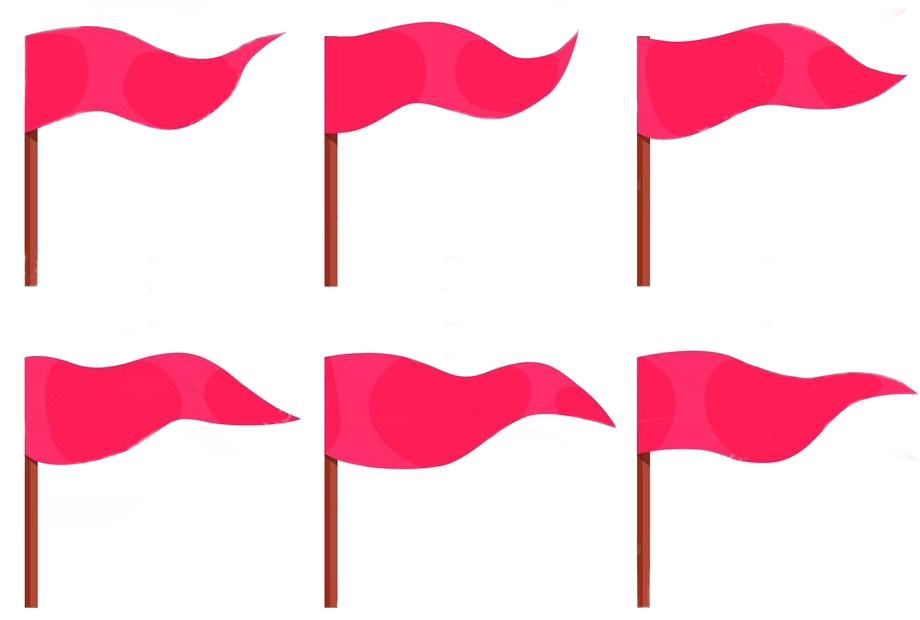
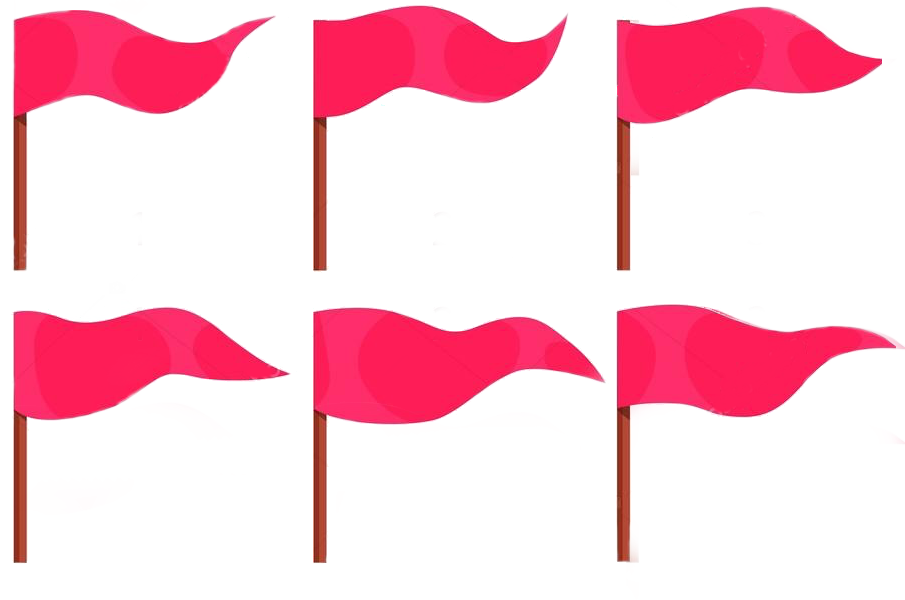
MapScreen flag animation added.

diff --git a/core/src/by/android/cradle/Kingdom.java b/core/src/by/android/cradle/Kingdom.java
@@ -12,11 +12,24 @@ public class Kingdom extends BaseActor {
         super(x,y,s, touchable);
         setHeight(height);
         setWidth(width);
-        loadTexture("kingdoms/winterfell.png", (int) getWidth(), (int) getHeight());
-        Animation<TextureRegion> animation= loadAnimationFromSheet("kingdoms/flaganimation01.png", 2, 3, 0.1f, true,50,50);
-        BaseActor baseActor = new BaseActor((int) getWidth()/2,(int) getHeight(),s,Touchable.enabled);
-        baseActor.setAnimation(animation);
-        addActor(baseActor);
 
+       // Animation<TextureRegion> animation= loadAnimationFromSheet("kingdoms/flaganimation01.png", 2, 3, 0.1f, true,50,50);
+        String[] filenames =
+                { "flag/flag02.png", "flag/flag03.png",
+                        "flag/flag04.png", "flag/flag05.png", "flag/flag06.png",
+                        "flag/flag07.png", "flag/flag08.png", "flag/flag09.png",
+                        "flag/flag10.png", "flag/flag11.png", "flag/flag12.png"
+                };
+
+       Animation<TextureRegion> animation = loadAnimationFromFiles(filenames, 0.1f, true,  50,  50);
+       BaseActor baseActor = new BaseActor((int) getWidth()/2.8f,(int) (getHeight()*0.5f),s,Touchable.enabled);
+       baseActor.setAnimation(animation);
+       addActor(baseActor);
+       baseActor = new BaseActor((int) getWidth()/2.8f,(int) (getHeight()*0.5f),s,Touchable.enabled);
+       animation = loadTexture("flag/flagbasement.png", (int) getWidth(), (int) getHeight());
+       baseActor.setAnimation(animation);
+       addActor(baseActor);
+
+       loadTexture("kingdoms/winterfell.png", (int) getWidth(), (int) getHeight());
     }
 }

diff --git a/core/src/by/android/cradle/GameMapScreen.java b/core/src/by/android/cradle/GameMapScreen.java
@@ -68,7 +68,12 @@ public class GameMapScreen extends BaseScreen {
         w = Gdx.graphics.getWidth();
         h = Gdx.graphics.getHeight();
         Kingdom winterfell = new Kingdom(w*0.15f, h*0.75f,50,50,uiStage,Touchable.enabled);
-
+        Kingdom kingdom2 = new Kingdom(w*0.29f, h*0.55f,50,50,uiStage,Touchable.enabled);
+        Kingdom kingdom3 = new Kingdom(w*0.45f, h*0.61f,50,50,uiStage,Touchable.enabled);
+        Kingdom kingdom4 = new Kingdom(w*0.45f, h*0.44f,50,50,uiStage,Touchable.enabled);
+        Kingdom kingdom5 = new Kingdom(w*0.45f, h*0.25f,50,50,uiStage,Touchable.enabled);
+        Kingdom kingdom6 = new Kingdom(w*0.12f, h*0.48f,50,50,uiStage,Touchable.enabled);
+        Kingdom kingdom7 = new Kingdom(w*0.65f, h*0.4f,50,50,uiStage,Touchable.enabled);
         //uiTable.add(title).colspan(2);
        // uiTable.row();
        // uiTable.add(backButton);
